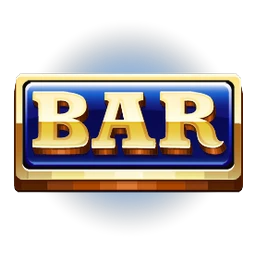
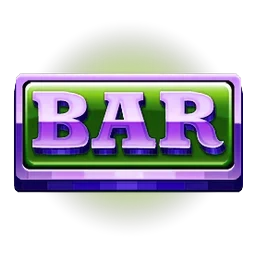
Fusion round 6: classic fruit trio dedupe
Claude-Session: https://claude.ai/code/session_01LcC21fng844zb5K8BRYuAt

diff --git a/LuckyVault/public/sw.js b/LuckyVault/public/sw.js
@@ -1,5 +1,5 @@
 // Offline cache for the game client (API calls always go to the network).
-const V = 'lv-v183';
+const V = 'lv-v184';
 const FILES = ['./', './index.html', './config.js', './manifest.webmanifest', './js/slots-engine.js', './js/catalog.js', './js/tables-engine.js', './js/tables-ui.js', './js/social.js', './js/fx.js', './js/feat-ui.js', './js/hov-ui.js', './js/roadmap.js', './js/vegas.js', './js/rules.js', './js/onboard.js', './js/friends-ui.js', './js/rg.js', './js/support-ui.js', './js/replay.js', './js/fx2.js', './js/i18n.js', './js/iap.js', './assets/fonts/Anton.woff2', './assets/fonts/Cinzel.woff2', './icons/icon-192.png', './icons/icon-512.png'];
 self.addEventListener('install', e => { e.waitUntil(caches.open(V).then(c => c.addAll(FILES)).then(() => self.skipWaiting())); });
 self.addEventListener('activate', e => { e.waitUntil(caches.keys().then(ks => Promise.all(ks.filter(k => k !== V).map(k => caches.delete(k)))).then(() => self.clients.claim())); });

diff --git a/LuckyVault/tools/build_fusion.py b/LuckyVault/tools/build_fusion.py
@@ -62,6 +62,7 @@ def hue(dst, deg):
     im = Image.open(dst).convert('RGBA'); a = im.split()[3]; h, s_, v = im.convert('RGB').convert('HSV').split()
     h = h.point(lambda x: (x + int(deg * 255 / 360)) % 256); out = Image.merge('HSV', (h, s_, v)).convert('RGB').convert('RGBA'); out.putalpha(a); out.save(dst, 'WEBP', quality=90)
 SA = CP + 'rpg-stone-age-game-512x512-icons/PNG/without background/'
+FR = CP + 'fruits-berries-vegetables-icon-512x512-set/PNG/without background/'
 MK = CP + 'rpg-monk-skill-game-icons/PNG/'
 FL = CP + 'fairy-loot-game-icons/PNG/without_shadow/'
 K = ['h1', 'h2', 'h3', 'h4', 'l1', 'l2', 'l3', 'l4', 'l5', 'W', 'S']
@@ -110,6 +111,9 @@ G = {
  'titans-colossal': dict(src=P(CLAW, 12, 43, 17, 11) + [None] * 7, glow=(255, 140, 60)),
  # Diamond Strike: lows shared with star-gems -> raw crystal clusters
  'diamond-strike': dict(src=[None] * 4 + P(HQ, 23, 49, 46) + [None] * 4, glow=(220, 230, 255)),
+ # ---- batch 6: classic fruit trio shared one kit (7/9 identical) -> 7+BAR recoloured, fruits from the 512 painted set ----
+ 'vegas-wheel-7s': dict(src=[None, None] + P(FR, 43, 13, 15, 29, 46) + [None] * 4, hue=(230, ['h1', 'h2']), glow=(150, 160, 255)),
+ 'triple-fortune-wilds': dict(src=[None, None] + P(FR, 44, 16, 30, 31, 35) + [None] * 4, hue=(140, ['h1', 'h2']), glow=(120, 255, 190)),
 }
 todo = sys.argv[1:] or list(G)
 for slug in todo:

diff --git a/LuckyVault/CHANGELOG.md b/LuckyVault/CHANGELOG.md
@@ -690,3 +690,6 @@ Frame-by-frame phone QA (idle, bet, deal x8, result, squeeze) in 中文 and Engl
 - 雷神之锤：低分符号（与维京突袭共用）→ 鱼干、兽皮、獠牙、兽牙、原木
 - 泰坦巨像：与金龙共用的龙系图标 → 巨兽部位（恶魔、尖刺尾、龙爪、兽角）
 - 钻石冲击：低分符号（与星光宝石共用）→ 原石晶簇
+
+## Round 94 (17:17) 素材融合第 6 批
+- 拉斯维加斯转轮 7s、三重财富百搭（与拉斯维加斯之夜共用同一套经典水果，7/9 相同）：7 和 BAR 分别改成蓝紫色、青绿色，水果换成 512 彩绘水果包里其他品种（猕猴桃、蜜瓜、苹果、梨、李子 / 异域果、椰子、樱桃、树莓、杏）
